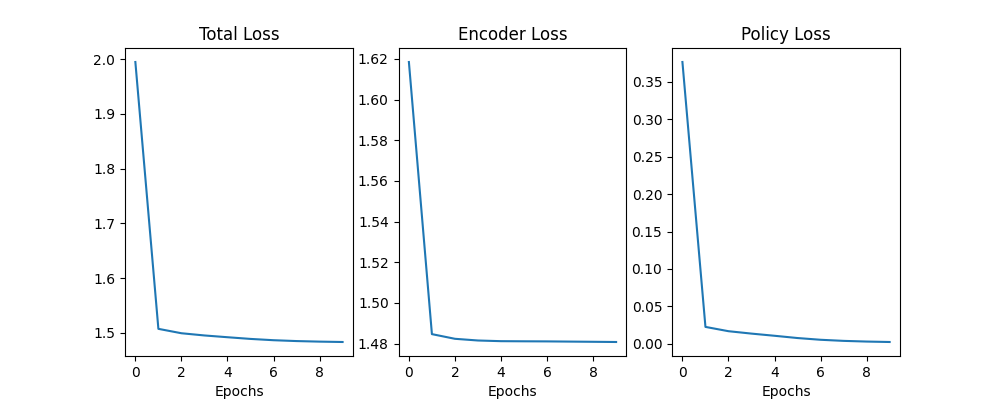
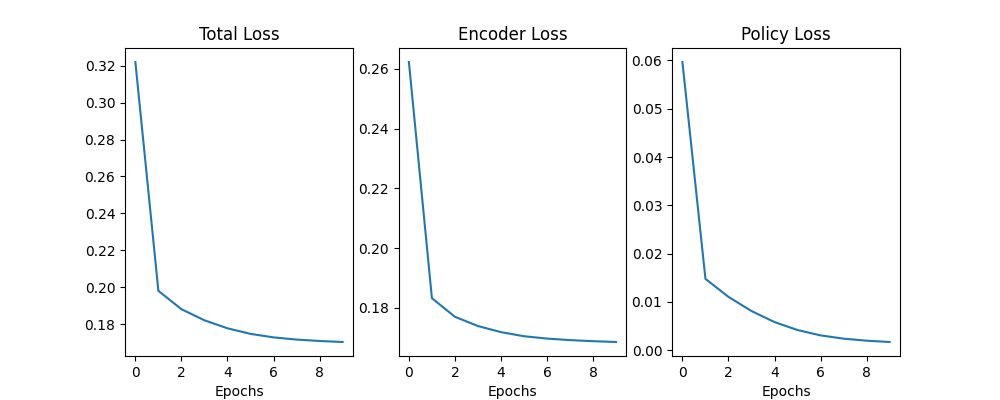
loss added

diff --git a/core/loss.py b/core/loss.py
@@ -36,6 +36,6 @@ def BT_loss(u,v):
     C = torch.bmm(u,v)
     C = torch.mean(C,dim=0) # [z x z]
     mask = torch.eye(C.size(0)).to('cuda')
-    loss = mask*torch.square(C) + 0.1*torch.square(1-C)*(torch.ones_like(mask)-mask)
+    loss = mask*torch.square(C) + 0.01*torch.square(1-C)*(torch.ones_like(mask)-mask)
     loss = torch.sum(loss)
     return loss
